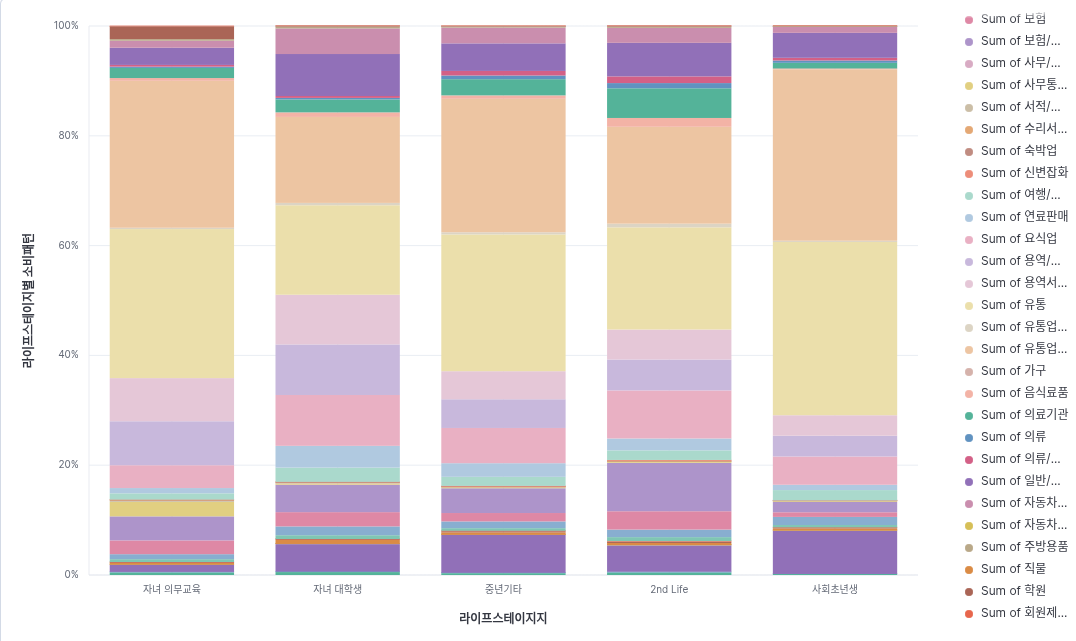
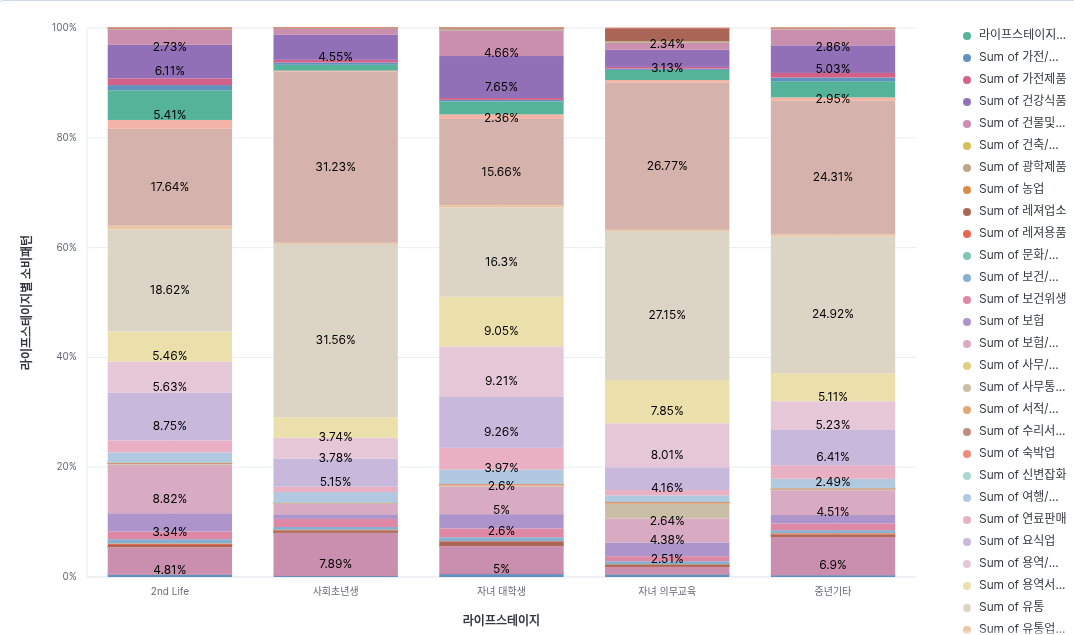
docs: 최종분석결과 내용 및 이미지 개선

diff --git a/README.md b/README.md
@@ -88,7 +88,15 @@
 * **내용**: 알람 반응률이 높은 상위 5개 그룹이 실제로 주로 어디에 돈을 쓰는지 분석.
 * **인사이트**: 해당 업종(마트, 배달, 주유 등)에 특화된 혜택 기획의 기반.
 * **분석결과**: 
-![라이프스테이지별 소비 패턴 분석](./assets/라이프스테이지별_소비패턴.png)
+    - 일반적으로 유통에 가장 많은 소비
+    - 유통을 제외하고
+        - 2nd Life -> 병원
+        - 사회초년생 -> 건물및시설관리
+        - 자녀대학생 -> 요식업
+        - 자녀 의무교육 -> 용역/수리/건물자재
+        - 중년 -> 건물및시설관리
+![라이프스테이지별 소비 패턴 분석1](./assets/라이프스테이지별_소비패턴.png)
+![라이프스테이지별 소비 패턴 분석2](./assets/라이프스테이지별_소비패턴2.png)
 > 
 
 ---
